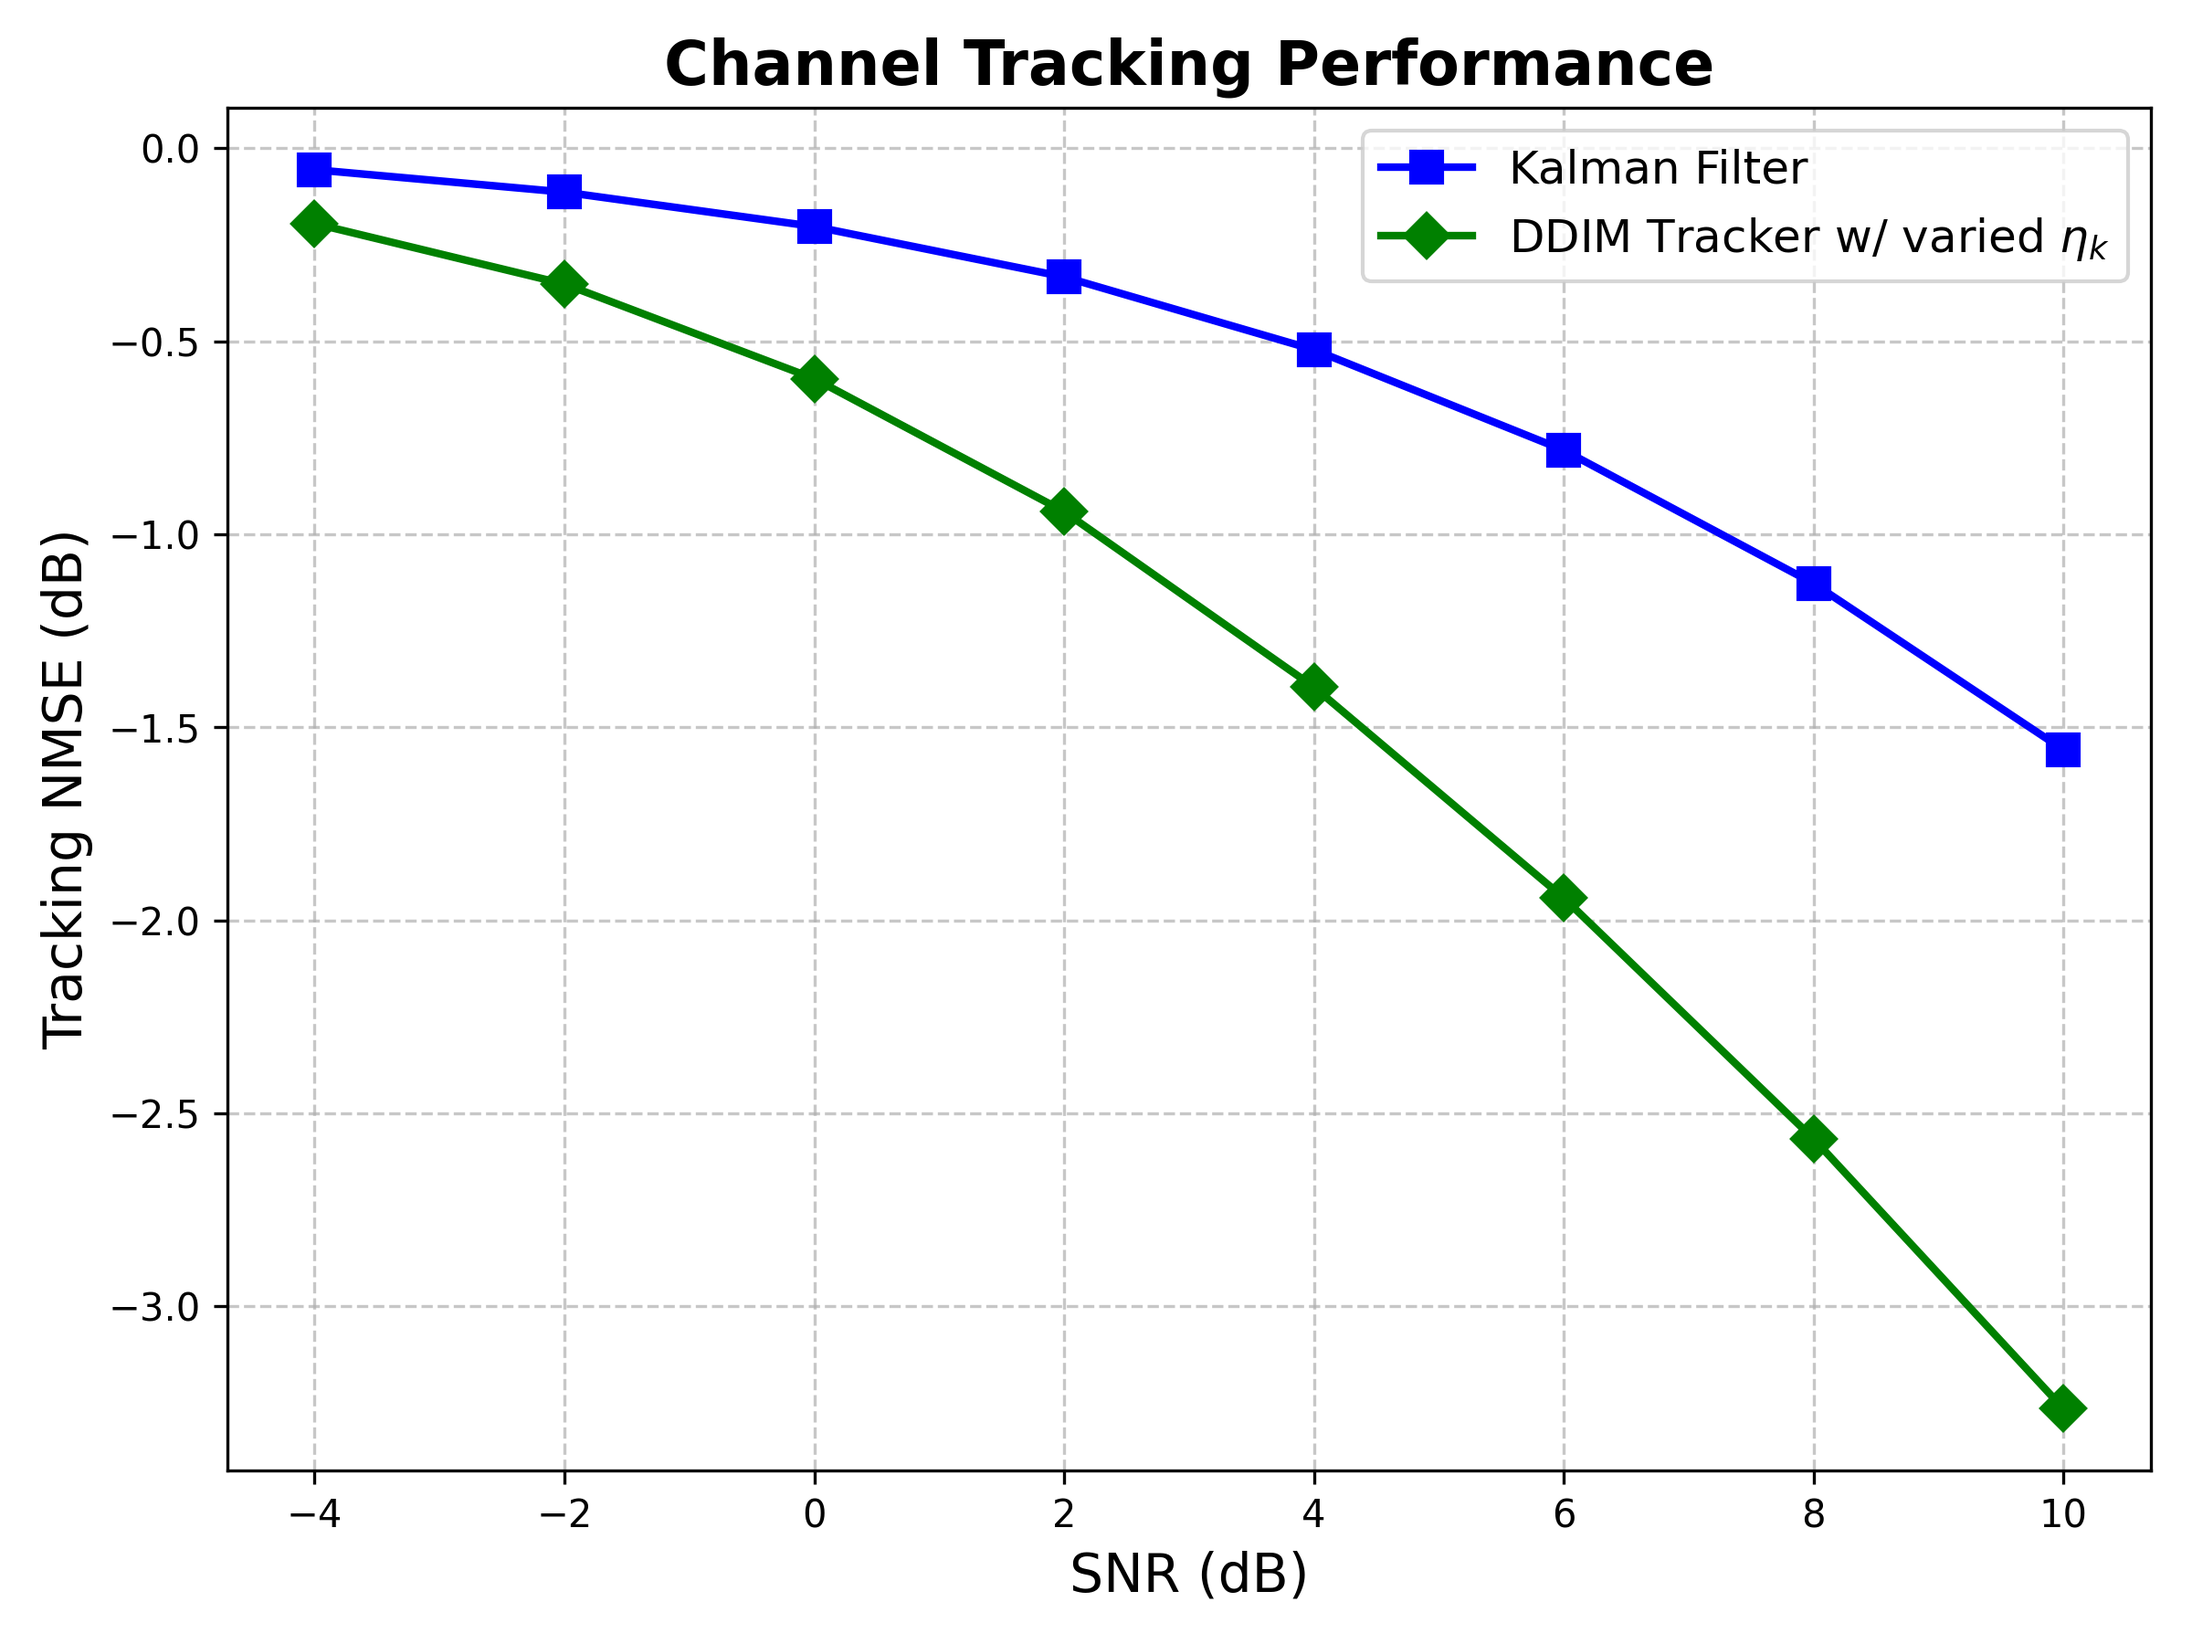
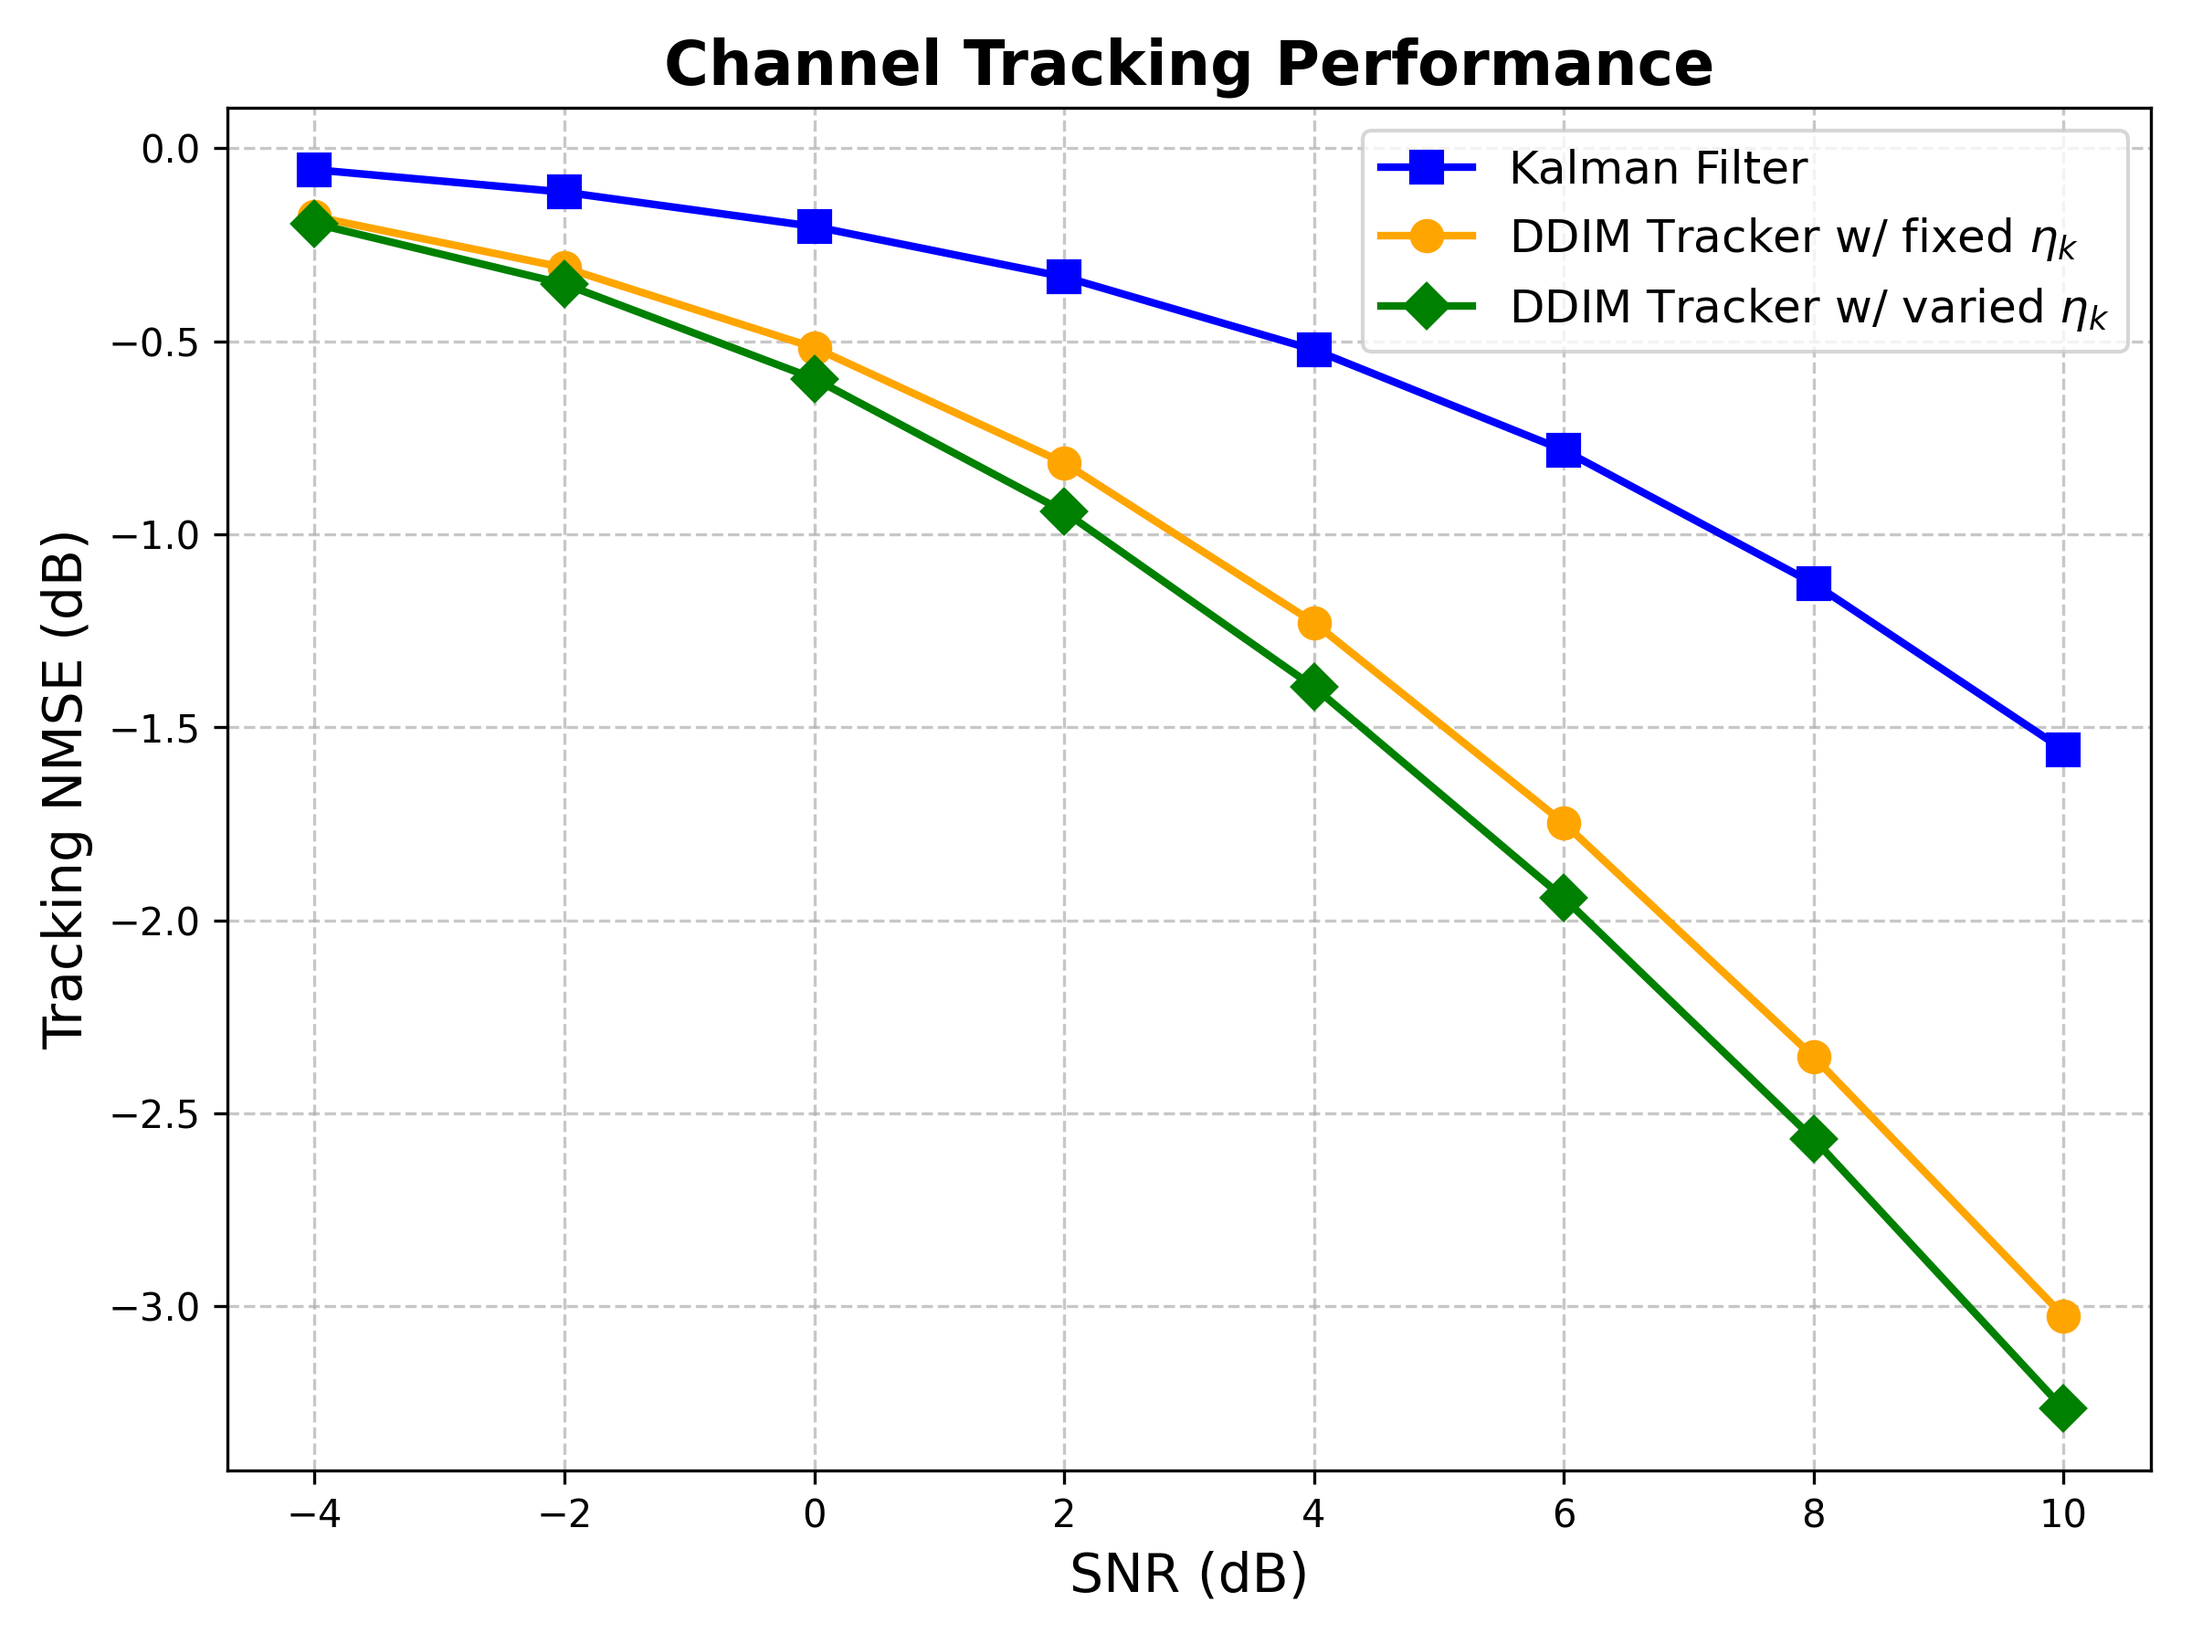
feat(38vs64vsSpatial): add 3 diff senario plot (9 curves)

diff --git a/small_scale_channel_tracking/test_results/NMSE_plot_rT64_vs_38_vs_spatial.py b/small_scale_channel_tracking/test_results/NMSE_plot_rT64_vs_38_vs_spatial.py
@@ -18,6 +18,9 @@ FILES = {
     f"Kalman Filter ($r_T=64$)": f"NMSE_KF_rT64_T64_{FREQ_GHZ}GHz_rho{RHO:.3f}.mat",
     r"DDIM Tracker w/ fixed $\eta_k$ ($r_T=64$)": f"NMSE_DDIM_rT64_T64_{FREQ_GHZ}GHz_rho{RHO:.3f}_fixed_eta.mat", 
     r"DDIM Tracker w/ varied $\eta_k$ ($r_T=64$)": f"NMSE_DDIM_rT64_T64_{FREQ_GHZ}GHz_rho{RHO:.3f}.mat",
+    f"Kalman Filter (spatial)": f"NMSE_KF_spatial_T64_{FREQ_GHZ}GHz_rho{RHO:.3f}.mat",
+    r"DDIM Tracker w/ fixed $\eta_k$ (spatial)": f"NMSE_DDIM_spatial_T64_{FREQ_GHZ}GHz_rho{RHO:.3f}_fixed_eta.mat", 
+    r"DDIM Tracker w/ varied $\eta_k$ (spatial)": f"NMSE_DDIM_spatial_T64_{FREQ_GHZ}GHz_rho{RHO:.3f}.mat",
 }
 
 STYLES = {
@@ -60,6 +63,27 @@ STYLES = {
         'color': 'green', 
         'marker': 'D', 
         'linestyle': '--',  
+        'linewidth': 2, 
+        'markersize': 8
+    },
+    "Kalman Filter (spatial)": {
+        'color': 'blue', 
+        'marker': 's', 
+        'linestyle': ':', 
+        'linewidth': 2, 
+        'markersize': 8
+    },
+    r"DDIM Tracker w/ fixed $\eta_k$ (spatial)": {
+        'color': 'orange', 
+        'marker': 'o', 
+        'linestyle': ':',  
+        'linewidth': 2, 
+        'markersize': 8
+    },
+    r"DDIM Tracker w/ varied $\eta_k$ (spatial)": {
+        'color': 'green', 
+        'marker': 'D', 
+        'linestyle': ':',  
         'linewidth': 2, 
         'markersize': 8
     },
@@ -171,7 +195,7 @@ def main():
         metric_type="x0",
         title="Channel Tracking Performance",
         ylabel="Tracking NMSE (dB)",
-        save_name_base=f"NMSE_Tracker_{FREQ_GHZ}GHz_rho{RHO:.3f}_rT64_vs_38",
+        save_name_base=f"NMSE_Tracker_{FREQ_GHZ}GHz_rho{RHO:.3f}_rT64_vs_38_spatial",
         script_dir=script_dir
     )
 

diff --git a/small_scale_channel_tracking/test_results/NMSE_plot.py b/small_scale_channel_tracking/test_results/NMSE_plot.py
@@ -13,16 +13,15 @@ CHAN_MODE = 'spatial'  # or 'modal'
 # Load .mat files to plot
 if CHAN_MODE == 'spatial':
     FILES = {
-        "Kalman Filter": f"NMSE_Baseline_Kalman_Filter_spatial_T64_{FREQ_GHZ}GHz_rho{RHO:.3f}.mat",
-        # r"DDIM Tracker w/ fixed $\eta_k$": f"NMSE_Tracker_DDIM_spatial_T64_{FREQ_GHZ}GHz_rho{RHO:.3f}_fixed_eta.mat", 
-        r"DDIM Tracker w/ varied $\eta_k$": f"NMSE_Tracker_DDIM_spatial_T64_{FREQ_GHZ}GHz_rho{RHO:.3f}.mat",
+        f"Kalman Filter": f"NMSE_KF_spatial_T64_{FREQ_GHZ}GHz_rho{RHO:.3f}.mat",
+        r"DDIM Tracker w/ fixed $\eta_k$": f"NMSE_DDIM_spatial_T64_{FREQ_GHZ}GHz_rho{RHO:.3f}_fixed_eta.mat", 
+        r"DDIM Tracker w/ varied $\eta_k$": f"NMSE_DDIM_spatial_T64_{FREQ_GHZ}GHz_rho{RHO:.3f}.mat",
     }
 elif CHAN_MODE == 'modal':
     FILES = {
-        "Kalman Filter": f"NMSE_Baseline_Kalman_Filter_{FREQ_GHZ}GHz_rho{RHO:.3f}.mat",
-        # Once you finish the DDIM testing script, you can simply uncomment and add its .mat file here:
-        r"DDIM Tracker w/ fixed $\eta_k$": f"NMSE_Tracker_DDIM_{FREQ_GHZ}GHz_rho{RHO:.3f}_fixed_eta.mat", 
-        r"DDIM Tracker w/ varied $\eta_k$": f"NMSE_Tracker_DDIM_{FREQ_GHZ}GHz_rho{RHO:.3f}.mat",
+        f"Kalman Filter": f"NMSE_KF_rT64_T64_{FREQ_GHZ}GHz_rho{RHO:.3f}.mat",
+        r"DDIM Tracker w/ fixed $\eta_k$": f"NMSE_DDIM_rT64_T64_{FREQ_GHZ}GHz_rho{RHO:.3f}_fixed_eta.mat", 
+        r"DDIM Tracker w/ varied $\eta_k$": f"NMSE_DDIM_rT64_T64_{FREQ_GHZ}GHz_rho{RHO:.3f}.mat",
     }
 
 STYLES = {
